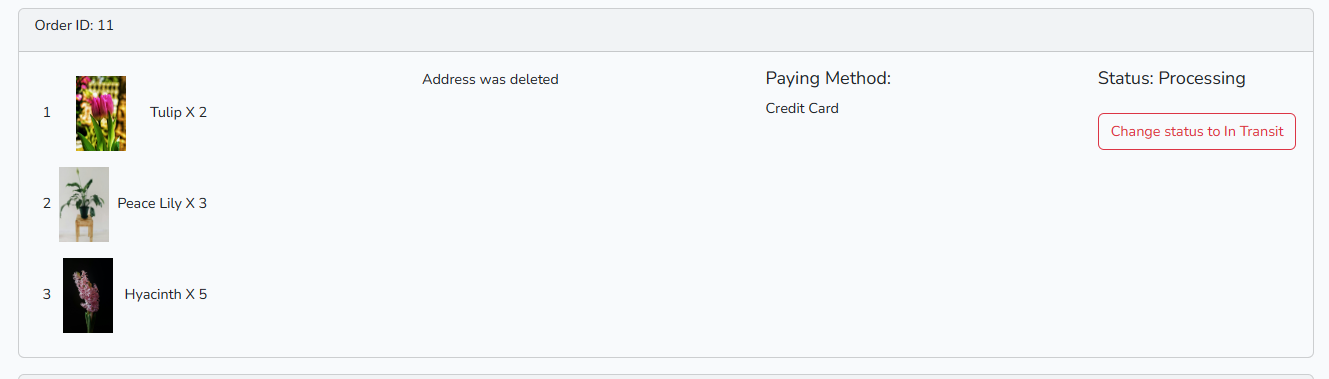
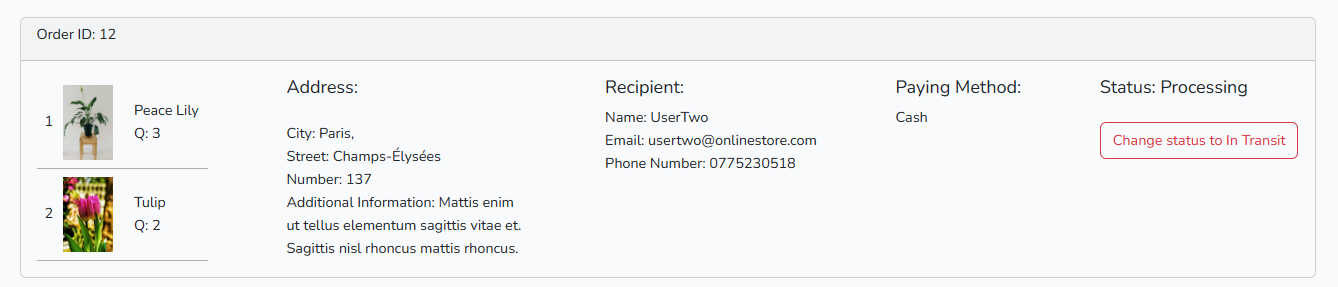
commit

diff --git a/resources/views/orders/show.blade.php b/resources/views/orders/show.blade.php
@@ -22,7 +22,7 @@
                             @include('components.cld-img', ['public_id'=>$product->photos[0], 'width'=>50,
                             'height'=>75])
                         </div>
-                        <div style="width: 60%; display: flex; flex-direction: column; align-items: flex-start; margin-left: 5px">
+                        <div style="width: 60%; display: flex; flex-direction: column; align-items: flex-start; margin-left: 1rem">
                             <div>{{$product->name}}</div>
                             <div>Q: {{$product->quantity}}</div>
                         </div>
@@ -34,7 +34,7 @@
                     @endforeach
                 </div>
                 @if($order->address)
-                <div class="d-flex flex-column gap-3">
+                <div class="d-flex flex-column gap-3" style="width: 15rem">
                     <h5>
                         Address:
                     </h5>
@@ -48,6 +48,12 @@
                 @else
                 <p>Address was deleted</p>
                 @endif
+                <div>
+                    <h5>Recipient:</h5>
+                    <div>Name: {{$order->name}}</div>
+                    <div>Email: {{$order->email}}</div>
+                    <div>Phone Number: {{$order->phoneNumber}}</div>
+                </div>
                 <div>
                     <h5>Paying Method: </h5>
                     <div>{{$order->paying_method}}</div>

diff --git a/app/Http/Controllers/OrdersController.php b/app/Http/Controllers/OrdersController.php
@@ -7,6 +7,7 @@ use App\Models\Cart;
 use App\Models\Orders;
 use App\Models\Photo;
 use App\Models\Product;
+use App\Models\User;
 use Illuminate\Support\Facades\Auth;
 use App\Models\OrderedProducts;
 use Illuminate\Http\Request;
@@ -60,6 +61,9 @@ class OrdersController extends Controller
             $cartCount = (new CartController)->count();
             foreach ($orders as $order) {
                 $order->products = (new OrdersController)->getProducts($order->id);
+                $order->phoneNumber = User::where('id', $order->user_id)->pluck('phone-number')->first();
+                $order->name = User::where('id', $order->user_id)->pluck('name')->first();
+                $order->email = User::where('id', $order->user_id)->pluck('email')->first();
                 $address = Address::where("id", $order->address_id)->first();
                 if($address)
                 {
